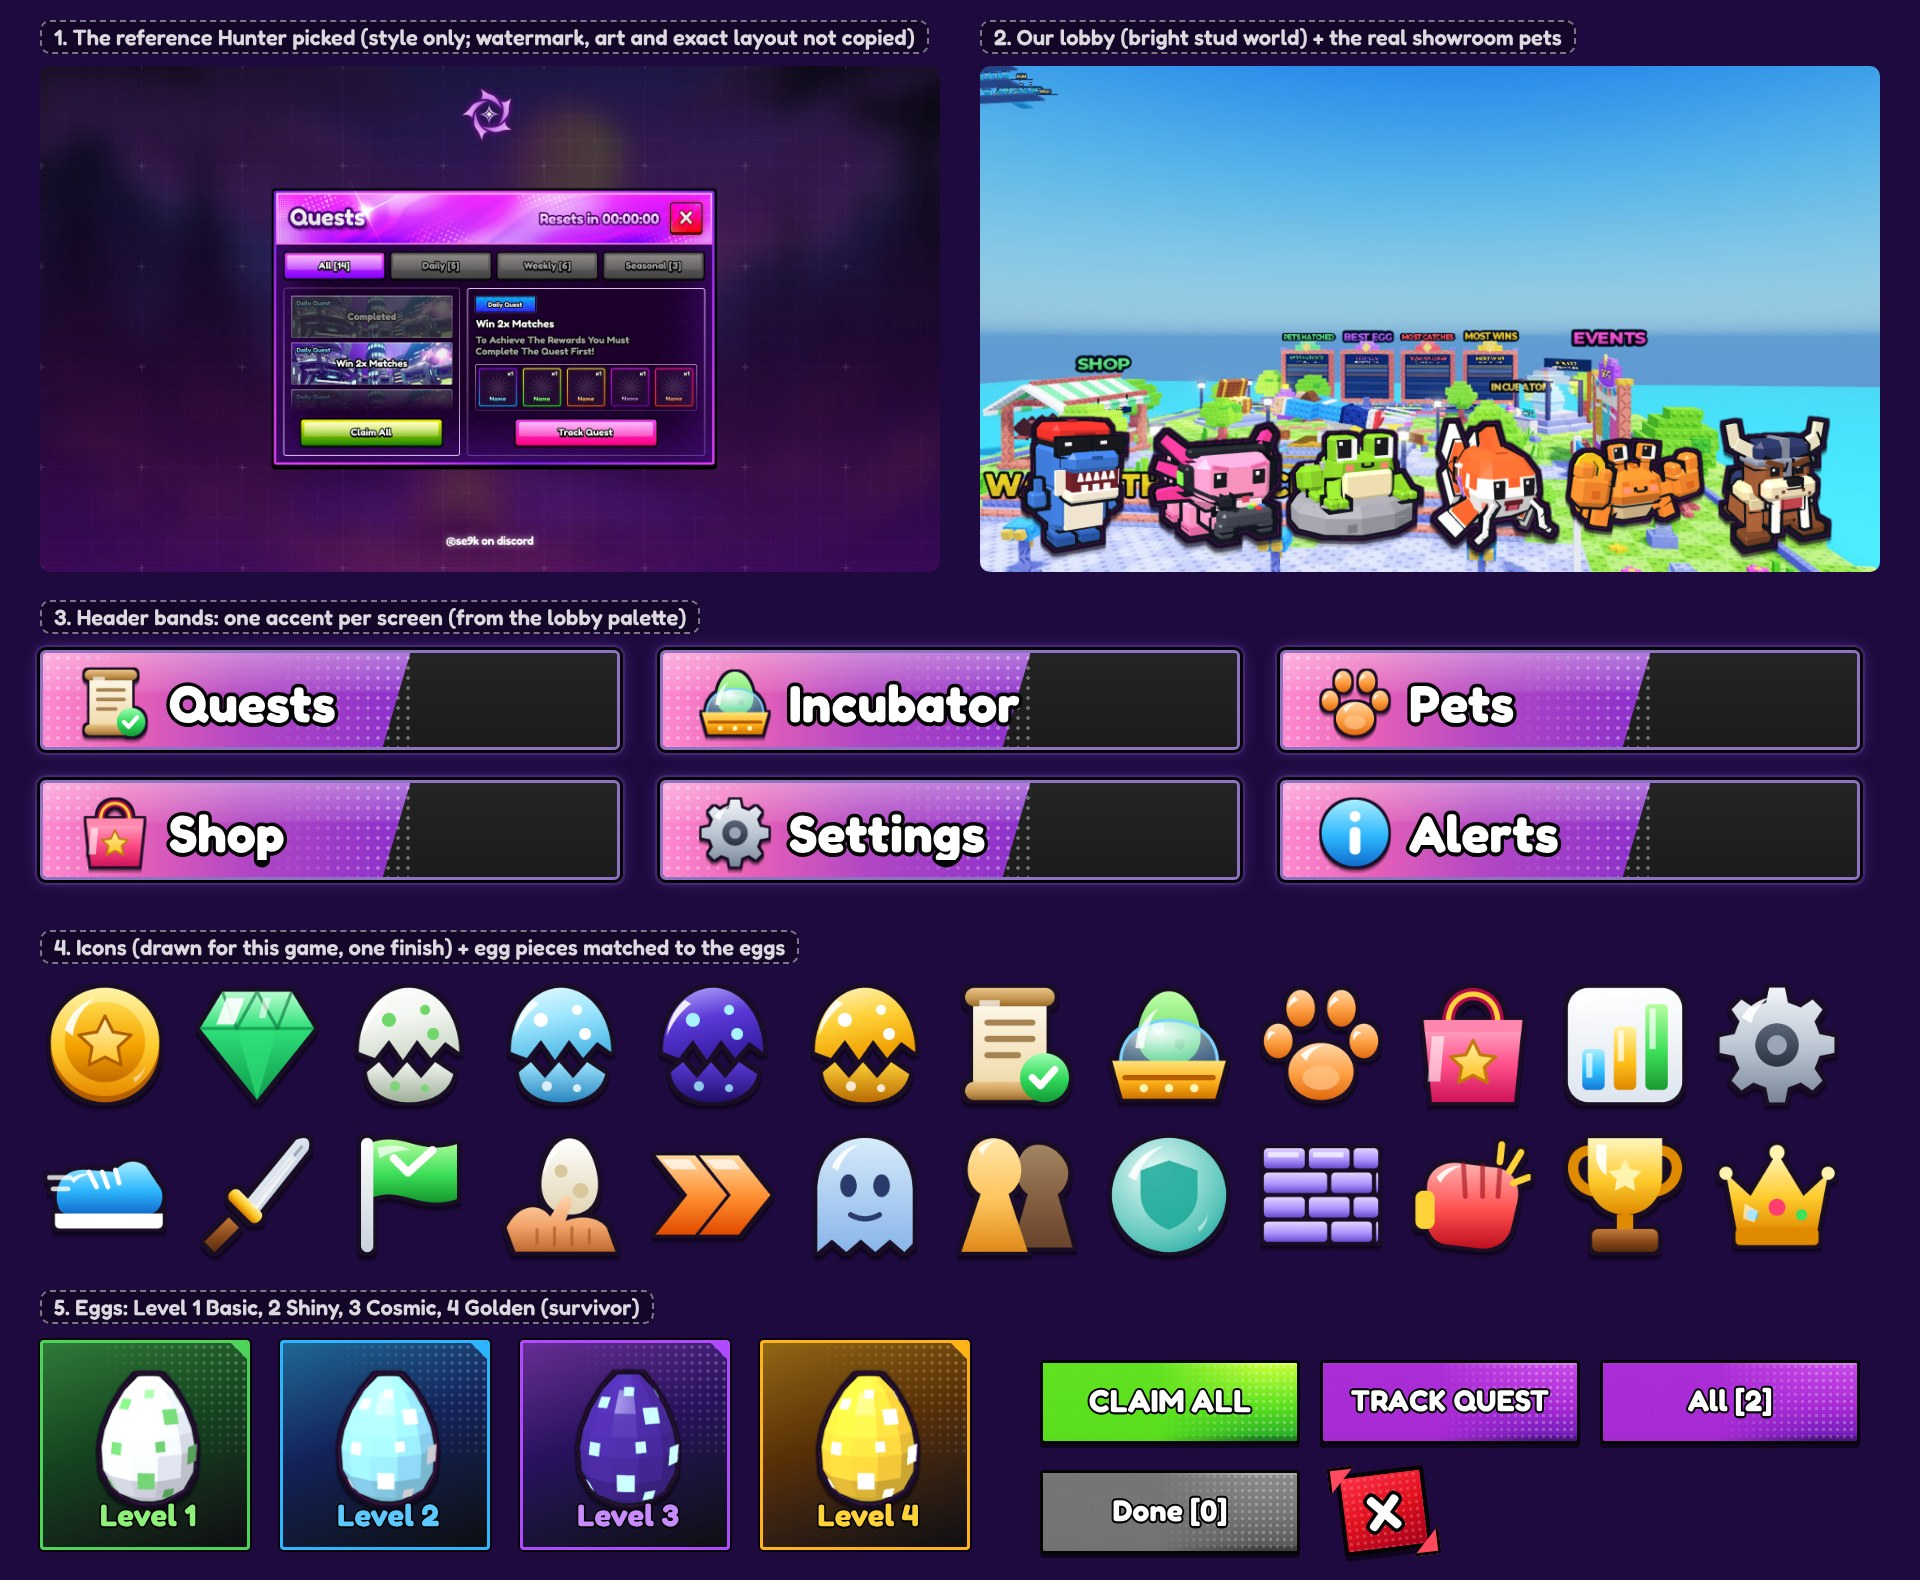
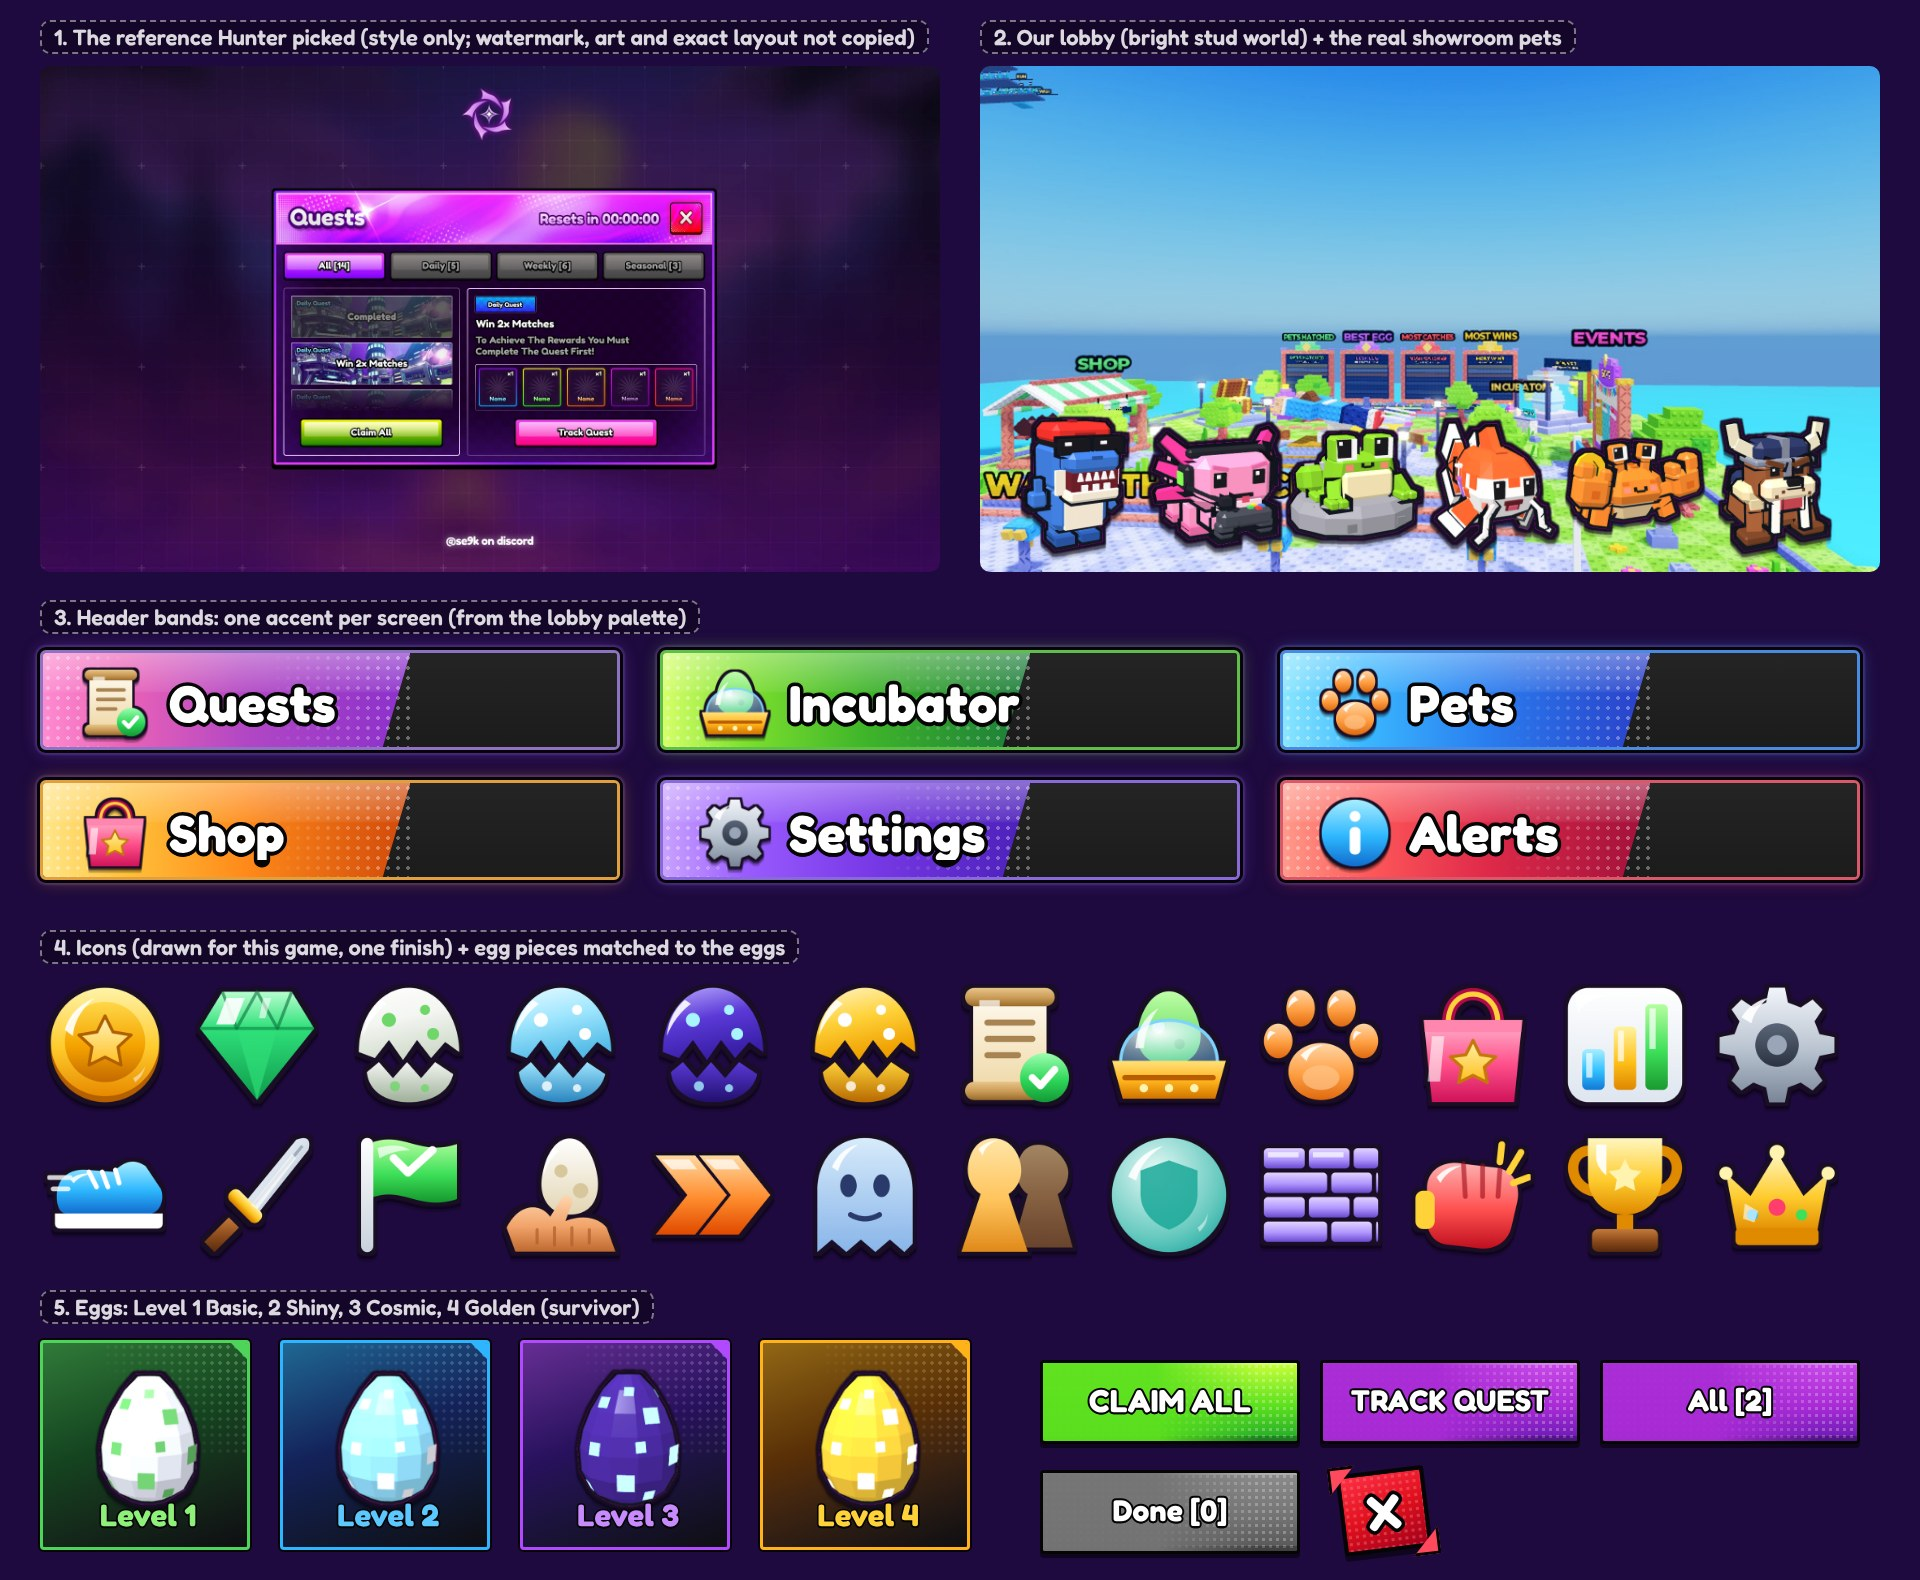
HOS-UI-003: one accent colour per screen instead of pink everywhere (Hunter feedback)
Claude-Session: https://claude.ai/code/session_01RfKJiKr9ePhA7FoxdhhxZp

diff --git a/ui/styles/sport.css b/ui/styles/sport.css
@@ -12,8 +12,16 @@ body, .ot { font-family: 'Fredoka', sans-serif; font-weight: 700; }
 .ot { letter-spacing: .2px; }
 
 /* one scheme for every screen (reference) */
-.a-pink, .a-lime, .a-sky, .a-gold, .a-violet, .a-coral {
-  --h1:#ff8ad0; --h2:#eb62b7; --h3:#8b30cc; --fr:#8d73c2; --gl:rgba(150,90,230,.45); }
+/* one accent per screen (Hunter, 16 Oct: "not crazy about every screen being pink"). Same banner structure as
+   the Units reference, colour by screen: --h1 light, --h2, --hm mid, --h3 deep, --fr panel rim, --gl glow */
+.a-purple { --h1:#c9a2ff; --h2:#9a5cff; --hm:#7a3ae8; --h3:#4a1fb8; --fr:#8a6ad8; --gl:rgba(130,90,240,.45); }
+.a-pink   { --h1:#ff8ad0; --h2:#eb62b7; --hm:#b247c4; --h3:#8b30cc; --fr:#8d73c2; --gl:rgba(150,90,230,.45); }
+.a-lime   { --h1:#d6ff6a; --h2:#7ee02e; --hm:#3fb52a; --h3:#1a7a3a; --fr:#5fbf4a; --gl:rgba(110,220,70,.38); }
+.a-sky    { --h1:#8ae6ff; --h2:#3ab8ff; --hm:#2a7ef0; --h3:#2a3ec8; --fr:#4a8ae0; --gl:rgba(60,150,255,.42); }
+.a-gold   { --h1:#ffe68a; --h2:#ffc23a; --hm:#ff8a1a; --h3:#d0480a; --fr:#e0a040; --gl:rgba(255,170,40,.38); }
+.a-coral  { --h1:#ff9a8a; --h2:#ff5a5a; --hm:#e02a4a; --h3:#a0103a; --fr:#d85a6a; --gl:rgba(240,70,90,.4); }
+.a-steel  { --h1:#dfe6f0; --h2:#a8b4c6; --hm:#7a8aa2; --h3:#4a5670; --fr:#8a96aa; --gl:rgba(150,170,200,.35); }
+.a-violet { --h1:#c9a2ff; --h2:#9a5cff; --hm:#7a3ae8; --h3:#4a1fb8; --fr:#8a6ad8; --gl:rgba(130,90,240,.45); }
 
 /* ---------- panel ---------- */
 .cglow { border-radius: 10px; filter: blur(22px); opacity: .8; }
@@ -32,7 +40,7 @@ body, .ot { font-family: 'Fredoka', sans-serif; font-weight: 700; }
 .sbn > .f { inset: 5px 6px 5px 5px; overflow: hidden;
   background:
     linear-gradient(180deg, rgba(255,255,255,.35) 0, rgba(255,255,255,.08) 38%, rgba(255,255,255,0) 40%),
-    linear-gradient(90deg, var(--h1) 0%, var(--h2) 22%, #b247c4 55%, var(--h3) 100%); }
+    linear-gradient(90deg, var(--h1) 0%, var(--h2) 22%, var(--hm) 55%, var(--h3) 100%); }
 .sbn > .f::before { content: ''; position: absolute; inset: 0; opacity: .38;
   background: radial-gradient(circle, #fff 1.6px, transparent 2px) 0 0 / 10px 10px;
   -webkit-mask-image: linear-gradient(90deg, #000 0 10%, transparent 26%, transparent 62%, #000 92%); }
@@ -51,7 +59,7 @@ body, .ot { font-family: 'Fredoka', sans-serif; font-weight: 700; }
 /* full-width header strips still used by small cards (results / confirm): same banner colours */
 .ch { background: linear-gradient(180deg, #242424, #1b1b1c); border-bottom: 3px solid #050506; }
 .ch::before { content: ''; position: absolute; left: 0; top: 0; bottom: 0; width: 64%; transform: none; opacity: 1; -webkit-mask: none; mix-blend-mode: normal;
-  background: linear-gradient(180deg, rgba(255,255,255,.35) 0, rgba(255,255,255,.08) 38%, rgba(255,255,255,0) 40%), linear-gradient(90deg, var(--h1), var(--h2) 22%, #b247c4 55%, var(--h3));
+  background: linear-gradient(180deg, rgba(255,255,255,.35) 0, rgba(255,255,255,.08) 38%, rgba(255,255,255,0) 40%), linear-gradient(90deg, var(--h1), var(--h2) 22%, var(--hm) 55%, var(--h3));
   clip-path: polygon(0 0, 100% 0, 92% 100%, 0 100%); }
 .ch::after { content: ''; position: absolute; inset: 0 36% 0 0; opacity: .35; mix-blend-mode: normal;
   background: radial-gradient(circle, #fff 1.6px, transparent 2px) 0 0 / 10px 10px;

diff --git a/ui/build.py b/ui/build.py
@@ -522,7 +522,7 @@ def s_quests():
     d += btn(344, 382, 270, 76, 'purple', bl('TRACK', 30), name='Track')
     b += well(650, 112, 642, 520, d, name='Detail')
     right = row(icn('clock', 52), T('Resets in 06:42:10', 34, 's', name='ResetText'), gap=8)
-    return world('bg_lobby_blur.jpg', False) + dim() + panel('Quests', 'pink', 'Quests', 'quests', b, x0, y0, W, H, right)
+    return world('bg_lobby_blur.jpg', False) + dim() + panel('Quests', 'purple', 'Quests', 'quests', b, x0, y0, W, H, right)
 
 
 # ================================================================== Incubator (GDD 03, 09, 14)
@@ -712,7 +712,7 @@ def s_stats():
         inner = I(ic, 14, 22, 120) + at(146, 34, T(lab, 22, 'xs', 'f-dim')) + at(146, 66, T(val, 52, 'l', FILL.get(c, ''), name='Value'))
         b += box(x, y, 386, 176, inner, f'cs r-{c}', 'border-radius:16px', name=f'Stat{i + 1}')
     right = row(icn('crown', 48), T('Your record', 32, 's'), gap=6)
-    return world('bg_lobby_blur.jpg', False) + dim() + panel('Stats', 'violet', 'Stats', 'stats', b, x0, y0, W, H, right)
+    return world('bg_lobby_blur.jpg', False) + dim() + panel('Stats', 'coral', 'Stats', 'stats', b, x0, y0, W, H, right)
 
 
 # ================================================================== Settings (real settings only)
@@ -733,7 +733,7 @@ def s_settings():
     b += btn(26, 568, 360, 64, 'purple', bl('GAME', 28), name='TabGame')
     b += btn(414, 568, 360, 64, 'grey', bl('AUDIO', 28), name='TabAudio')
     b += btn(802, 568, 360, 64, 'grey', row(icn('controls', 36), bl('CONTROLS', 28)), name='TabControls')
-    return world('bg_lobby_blur.jpg', False) + dim() + panel('Settings', 'violet', 'Settings', 'settings', b, x0, y0, W, H)
+    return world('bg_lobby_blur.jpg', False) + dim() + panel('Settings', 'steel', 'Settings', 'settings', b, x0, y0, W, H)
 
 
 # ================================================================== Results (GDD 14 end-of-match breakdown)
@@ -807,11 +807,11 @@ def s_templates():
     out += toast(1000, 190, 'lime', 'check', 'Sparkle Trail bought!', 'Toast_good')
     out += toast(1000, 300, 'red', 'gold', 'Need 150 more Gold', 'Toast_error')
     out += toast(1000, 410, 'gold', 'piece_rare', '+1 Rare piece', 'Toast_reward')
-    cf = f"<div class='ch a-pink' style='height:84px'><div class='sweep'></div><div class='lbl'>{T('Are you sure?', 42, 'l', name='Title')}</div></div>"
+    cf = f"<div class='ch a-gold' style='height:84px'><div class='sweep'></div><div class='lbl'>{T('Are you sure?', 42, 'l', name='Title')}</div></div>"
     cf += at(380, 116, T('Buy Bolt Entrance for 1,400 Gold?', 30, 's', name='Body1'), w=740, align='center')
     cf += at(380, 160, T('Yours to keep. Looks only.', 22, 'xs', 'f-dim', name='Body2'), w=740, align='center')
     cf += btn(80, 214, 280, 80, 'lime', bl('BUY', 34, name='YesText'), name='BtnYes') + btn(400, 214, 280, 80, 'grey', bl('CANCEL', 34, name='NoText'), name='BtnNo')
-    out += grp('Confirm', f"<div class='cp a-pink' data-n='Card' style='left:1000px;top:560px;width:760px;height:330px'>{cf}</div>", 'TL')
+    out += grp('Confirm', f"<div class='cp a-gold' data-n='Card' style='left:1000px;top:560px;width:760px;height:330px'>{cf}</div>", 'TL')
     return out
 
 
